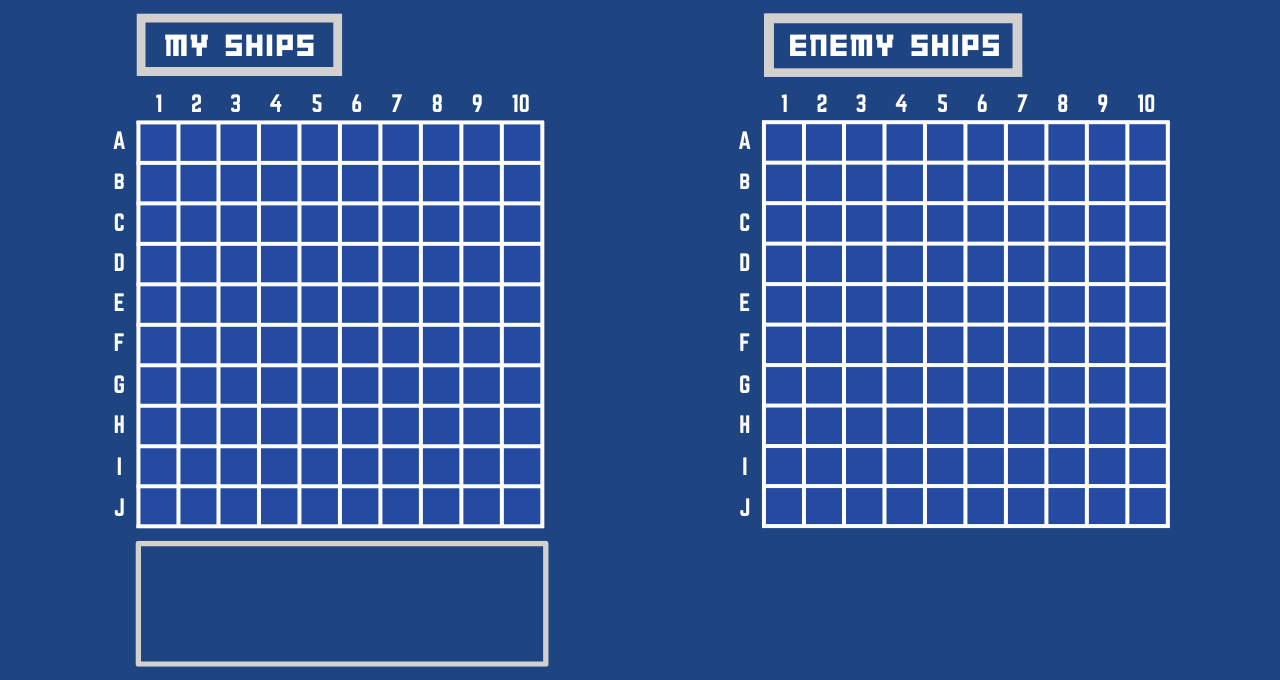
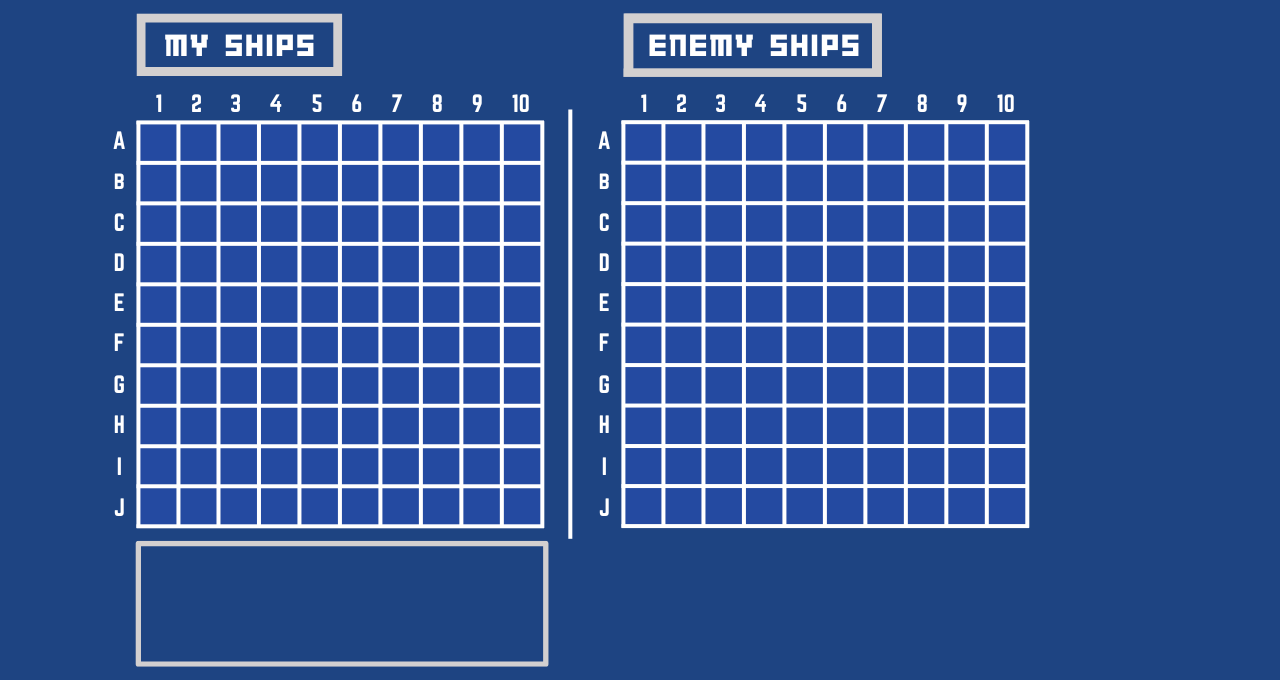
Changed play format

Changed region(s): [[0.4375, 0.0, 0.9375, 0.8029]]

diff --git a/mainProgram.java b/mainProgram.java
@@ -220,7 +220,7 @@ public class mainProgram implements ActionListener, MouseListener, MouseMotionLi
     
     playerGrid = new BattleGrid(141, 125, 40);
     thePanel.add(playerGrid);
-    enemyGrid = new BattleGrid(766, 125, 40);
+    enemyGrid = new BattleGrid(625, 125, 40);
     thePanel.add(enemyGrid);
 
     helpScreen = new helpPanel();
